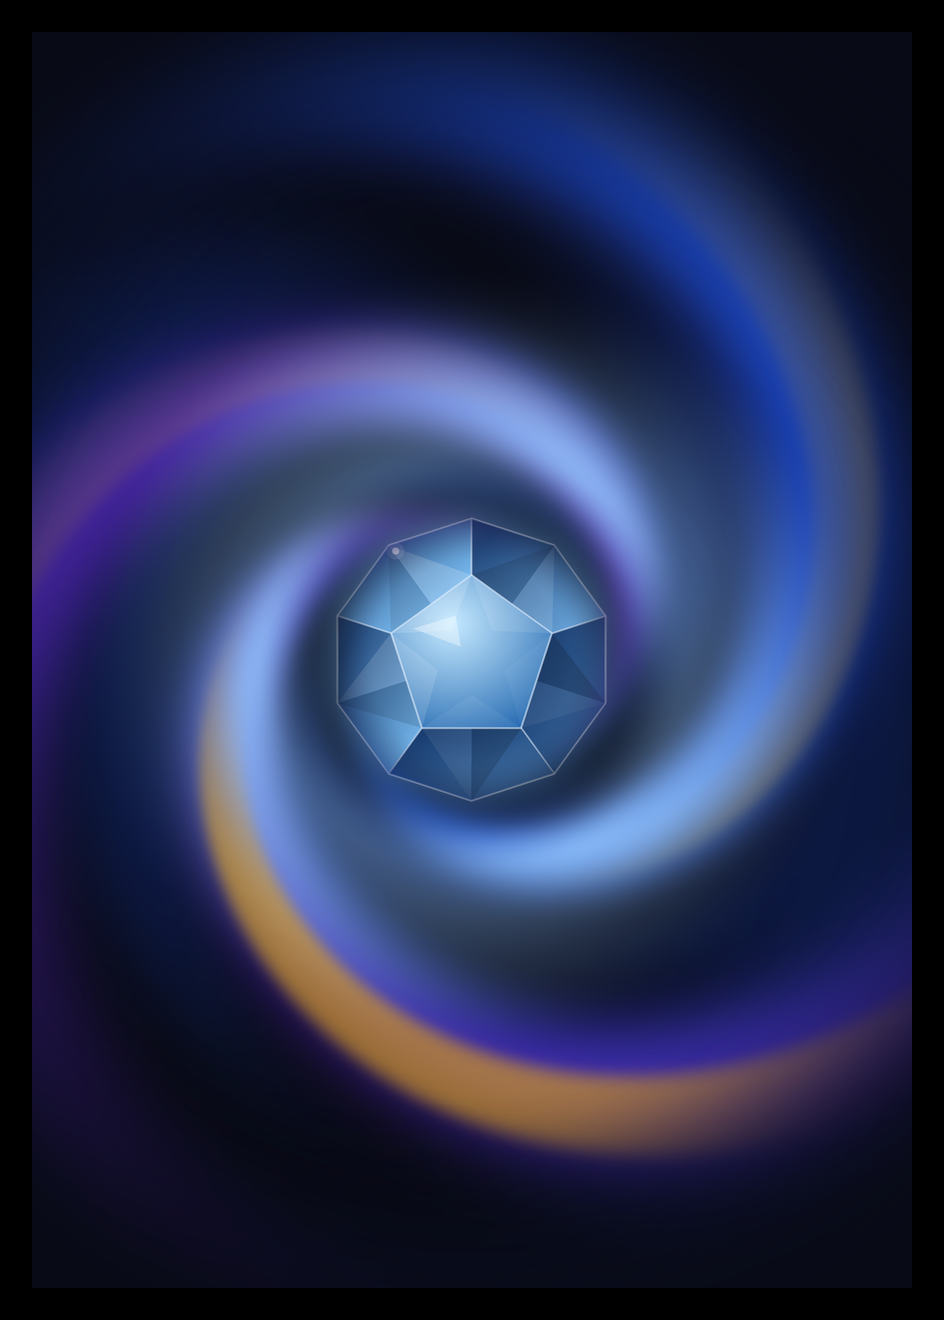
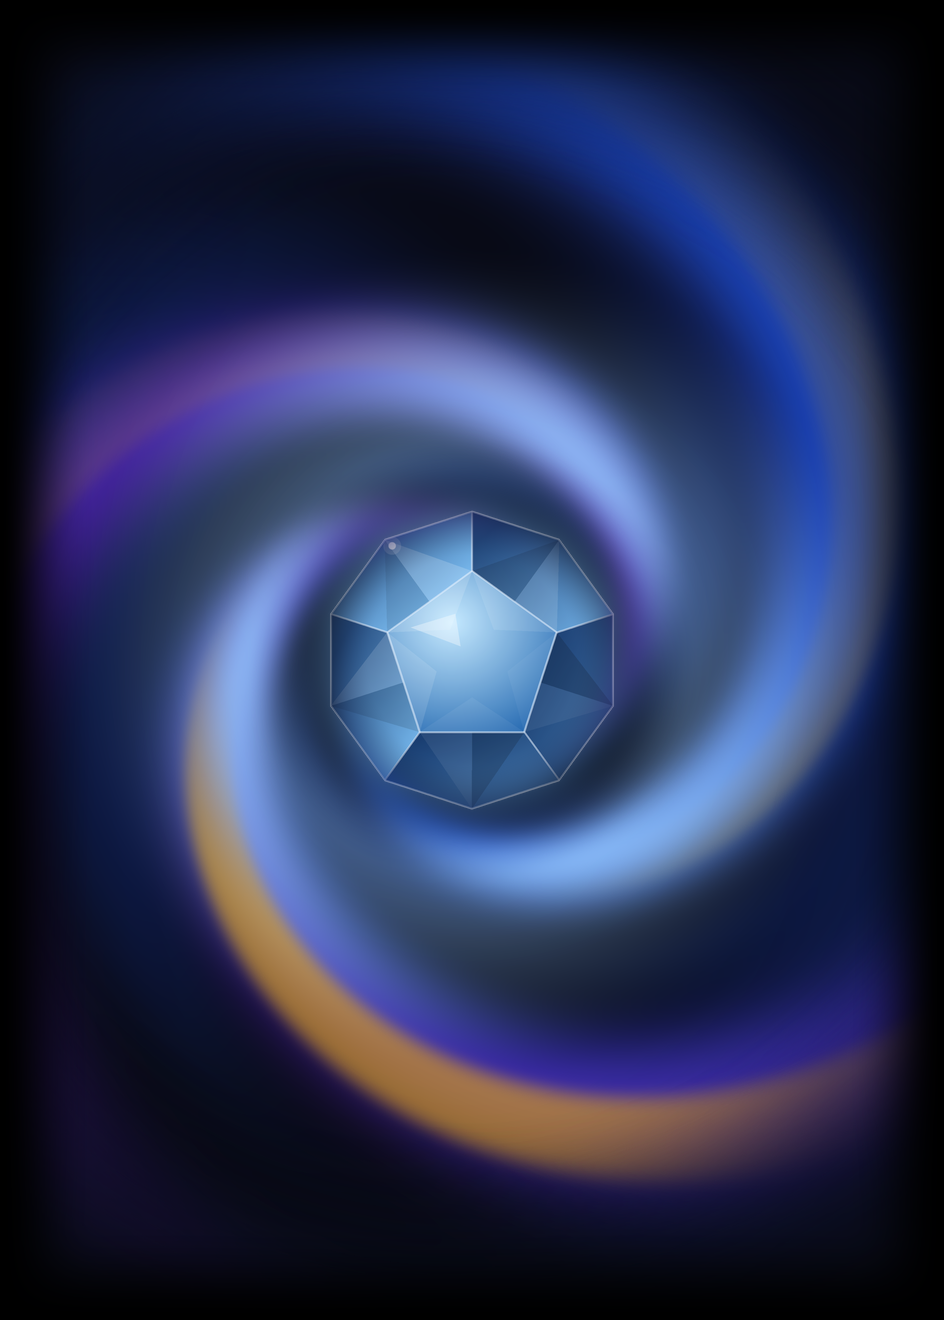
feat(cards): card back edge fades from black into the vortex
No fixed border: the vortex fills the whole card and the black eases in
from each edge (side fades joined so the corners have no crease).

diff --git a/design/cardback/build_cardback.py b/design/cardback/build_cardback.py
@@ -1,7 +1,7 @@
-"""The ERAS card back, built by layers (no generated imagery), for the web and the simulator: the card's black border,
-the slide's night blue, the color vortex of the home (design/home/build_vortex.py) centered, and the ERAS gem
+"""The ERAS card back, built by layers (no generated imagery), for the web and the simulator: black at the card's edge
+fading into the night blue (no hard border: the black seeps into the design), the color vortex of the home (design/home/build_vortex.py) centered, and the ERAS gem
 (variant A, design/logo) set into its eye: sunk in a shadow, reflecting the vortex,
-veiled by it, blooming over it. Same size ratio as the old back (472×660, border 16 px), drawn at 2×.
+veiled by it, blooming over it. Same size ratio as the old back (472×660), drawn at 2×.
 
     python build_cardback.py <out.png>
 """
@@ -17,7 +17,8 @@ sys.path[:0] = [os.path.join(HERE, '..', 'home'), os.path.join(HERE, '..', 'logo
 import build_vortex as v  # noqa: E402
 import render_png as gem  # noqa: E402
 
-W, H, BORDER = 472, 660, 16
+W, H = 472, 660
+FADE = 0.11  # how far in the edge's black reaches, as a share of the width
 K = 2  # output scale
 NIGHT = (8, 10, 22, 255)
 
@@ -48,8 +49,8 @@ def vortex_on(iw, ih, vortex):
 
 
 def cardback():
-    w, h, b = W * K, H * K, BORDER * K
-    iw, ih = w - 2 * b, h - 2 * b
+    w, h = W * K, H * K
+    iw, ih = w, h
     inner = Image.new('RGBA', (iw, ih), NIGHT)
 
     # Vortex: square, a bit taller than the card's face so its arms reach every edge
@@ -101,8 +102,17 @@ def cardback():
 
     inner = Image.fromarray((np.clip(scene, 0, 1) * 255).round().astype(np.uint8), 'RGBA')
 
-    card = Image.new('RGBA', (w, h), (0, 0, 0, 255))
-    card.alpha_composite(inner, (b, b))
+    # Edge: solid black at the very edge, easing into the scene
+    # (each side's fade on its own, joined as light through two veils: corners darker, no crease on the diagonal)
+    def fade(dist):
+        t = np.clip(dist / (w * FADE), 0, 1)
+        return (1 - t * t * (3 - 2 * t)) ** 1.4
+
+    black = 1 - (1 - fade(np.minimum(xs, iw - 1 - xs))) * (1 - fade(np.minimum(ys, ih - 1 - ys)))
+    edge = np.zeros((ih, iw, 4), np.uint8)
+    edge[..., 3] = (black * 255).round().astype(np.uint8)
+    card = inner
+    card.alpha_composite(Image.fromarray(edge, 'RGBA'))
     return card.convert('RGB')
 
 
